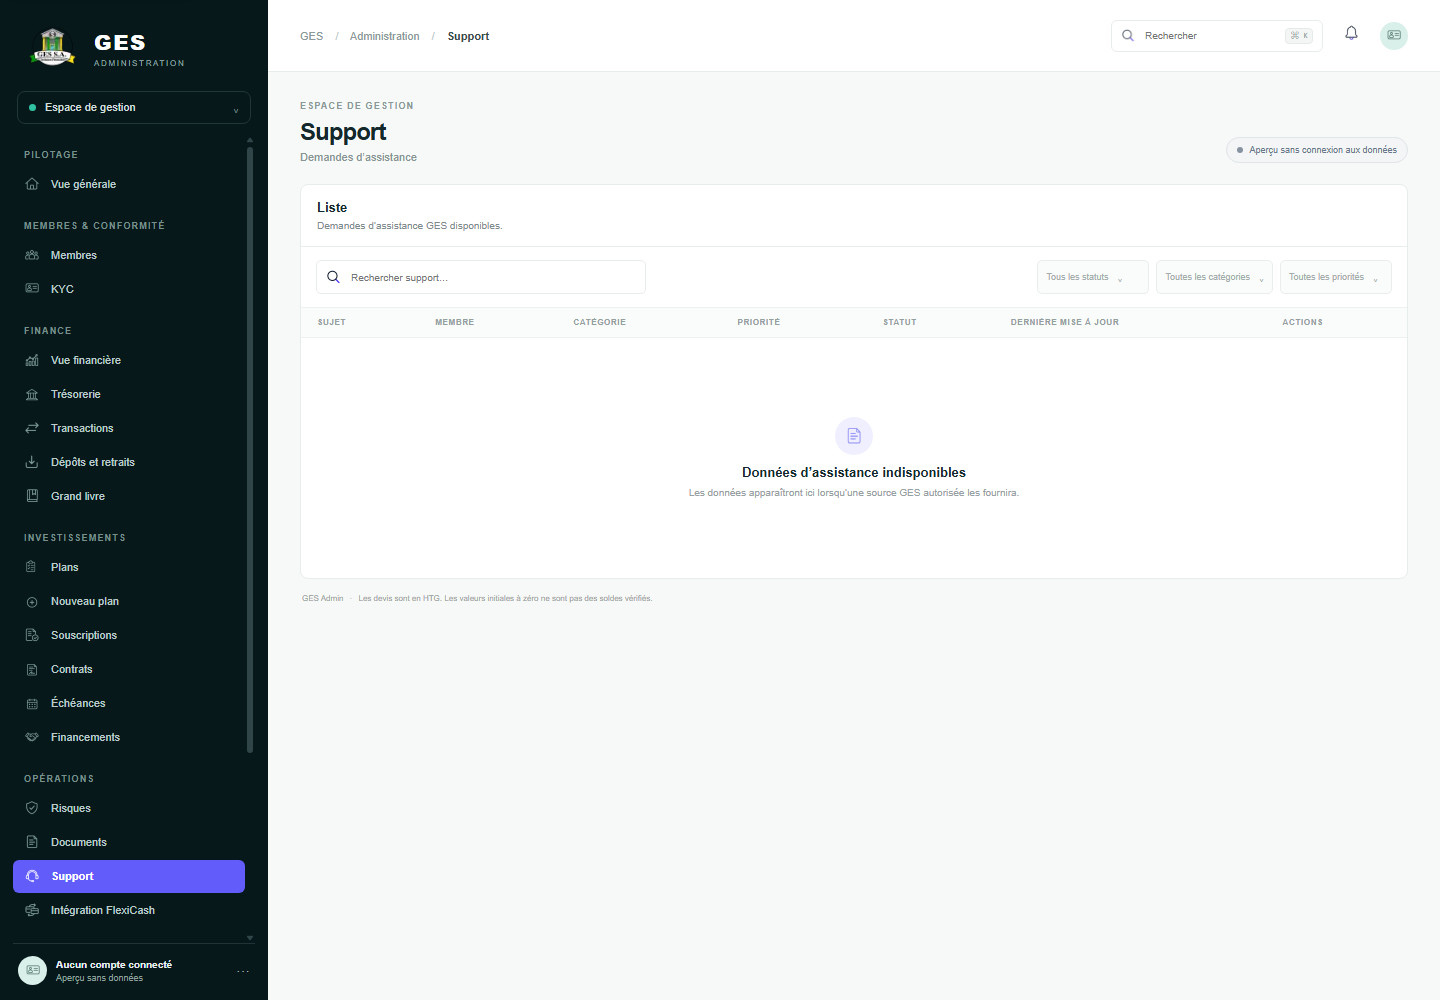
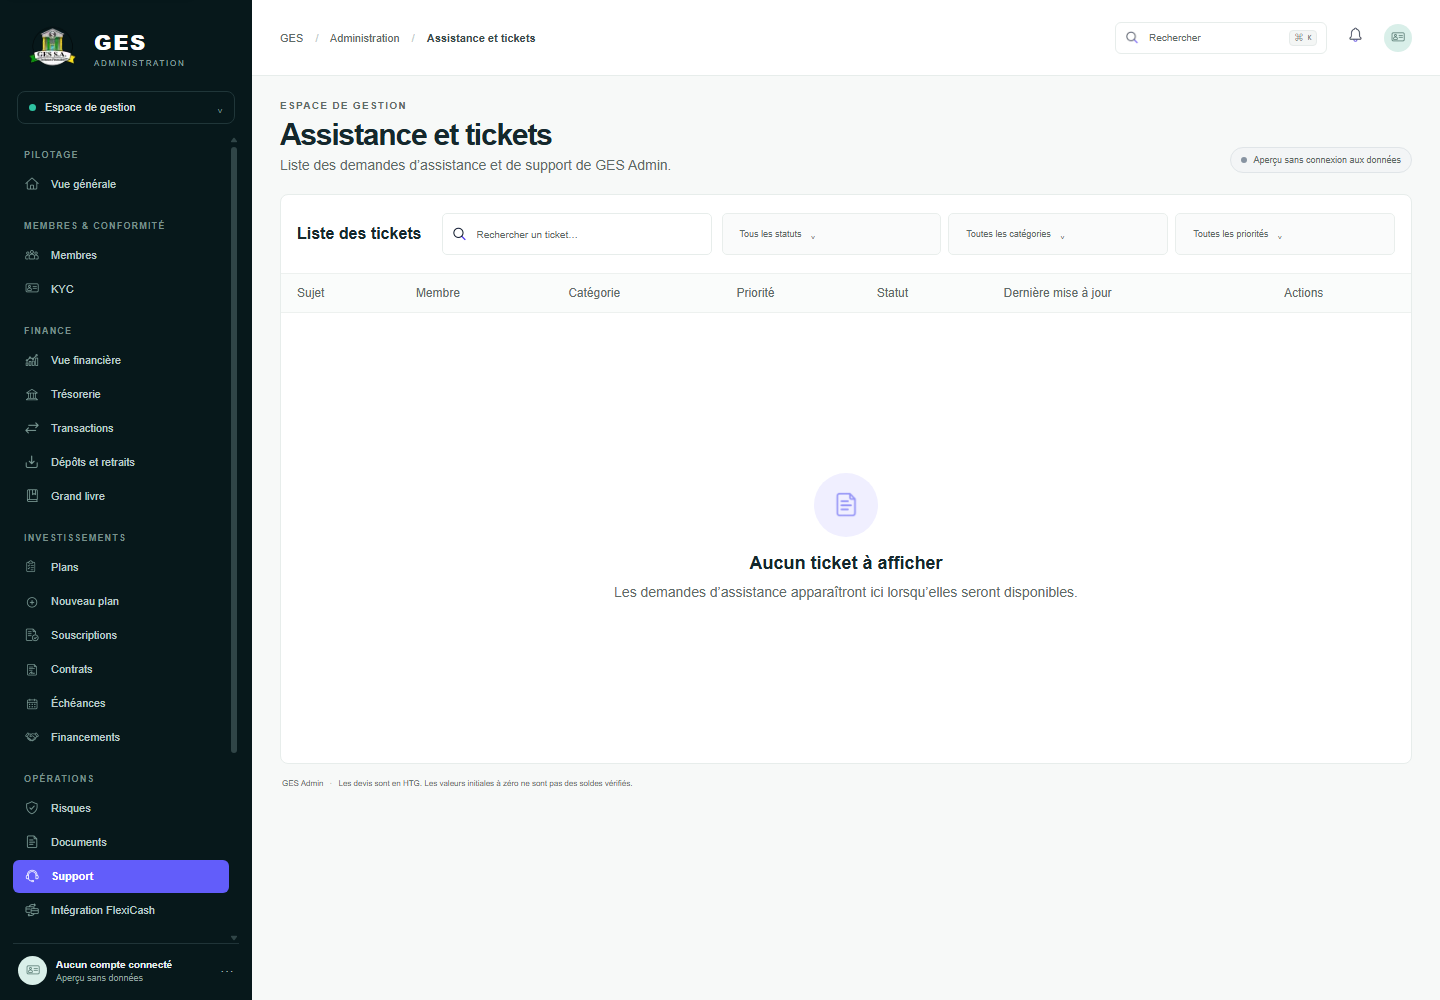
Align support tickets with MF-24

diff --git a/components/module-workspace.tsx b/components/module-workspace.tsx
@@ -12,6 +12,7 @@ type ModulePage = {
   title?: string;
   searchPlaceholder?: string;
   showSearch?: boolean;
+  toolbarTitle?: boolean;
   tabs?: string[];
 };
 
@@ -26,7 +27,7 @@ const pages: Record<string, ModulePage> = {
   financements: { description: "Dossiers de financement relevant de GES.", searchPlaceholder: "Rechercher un financement…", filters: ["Tous les statuts", "Tous les types"], columns: ["Projet ou bénéficiaire", "Montant proposé (HTG)", "Évaluation du risque", "Documents", "Statut", "Étapes"], empty: "Aucune demande de financement", emptyDescription: "Les dossiers apparaîtront ici lorsqu’ils seront disponibles." },
   risques: { description: "Surveillez les risques et alertes disponibles pour GES.", searchPlaceholder: "Rechercher une alerte…", filters: ["Toutes les catégories", "Toutes les sévérités", "Tous les statuts"], columns: ["Sévérité", "Catégorie", "Entité GES", "Analyste assigné", "Statut", "Actions"], empty: "Aucune alerte disponible", emptyDescription: "Les alertes confirmées apparaîtront ici lorsqu’elles seront disponibles." },
   documents: { description: "Documents disponibles dans les espaces GES autorisés.", filters: ["Tous les types"], columns: ["DOCUMENT", "CATÉGORIE", "LIÉ À", "MODIFIÉ LE", "ÉTAT"], empty: "Données documentaires indisponibles" },
-  support: { description: "Demandes d’assistance GES disponibles.", filters: ["Tous les statuts", "Toutes les catégories", "Toutes les priorités"], columns: ["SUJET", "MEMBRE", "CATÉGORIE", "PRIORITÉ", "STATUT", "DERNIÈRE MISE À JOUR", "ACTIONS"], empty: "Données d’assistance indisponibles" },
+  support: { description: "Demandes d’assistance GES disponibles.", title: "Liste des tickets", toolbarTitle: true, searchPlaceholder: "Rechercher un ticket…", filters: ["Tous les statuts", "Toutes les catégories", "Toutes les priorités"], columns: ["Sujet", "Membre", "Catégorie", "Priorité", "Statut", "Dernière mise à jour", "Actions"], empty: "Aucun ticket à afficher", emptyDescription: "Les demandes d’assistance apparaîtront ici lorsqu’elles seront disponibles." },
   equipe: { description: "Administrateurs et accès GES autorisés.", filters: ["Tous les rôles", "Tous les statuts"], columns: ["ADMINISTRATEUR", "RÔLE", "PERMISSIONS", "STATUT", "DERNIÈRE CONNEXION", "ACTIONS"], empty: "Données d’administration indisponibles" },
   audit: { description: "Journal des événements administratifs disponibles.", filters: ["Toutes les actions", "Tous les acteurs", "Période"], columns: ["DATE ET HEURE", "ACTEUR", "ACTION", "ENTITÉ CONCERNÉE", "RÉSULTAT", "DÉTAILS"], empty: "Données d’audit indisponibles" },
 };
@@ -80,5 +81,5 @@ export function ModuleWorkspace({ sectionKey, query, onQueryChange }: { sectionK
 }
 
 function GenericTable({ sectionKey, page, query, onQueryChange, activeTab, setActiveTab }: { sectionKey: string; page: ModulePage; query: string; onQueryChange: (value: string) => void; activeTab: number; setActiveTab: (value: number) => void }) {
-  return <section className={`panel list-panel module-list-panel ${page.showSearch === false ? "no-list-search" : ""}`}>{page.title && <div className="module-panel-header"><div><h2>{page.title}</h2>{page.description && <p>{page.description}</p>}</div></div>}{page.tabs && <div className="module-tabs">{page.tabs.map((tab, index) => <button key={tab} className={activeTab === index ? "selected" : ""} onClick={() => setActiveTab(index)}>{tab}</button>)}</div>}{page.showSearch !== false && <div className="module-toolbar"><label className="filter-search"><Image src="/assets/icons/search.webp" alt="" width={16} height={16}/><input aria-label={`Rechercher dans ${sectionKey}`} placeholder={page.searchPlaceholder ?? `Rechercher ${sectionKey.replaceAll("-", " ")}…`} value={query} onChange={(event) => onQueryChange(event.target.value)}/></label><div className="module-filter-row">{page.filters.map((filter) => <button key={filter} className="filter-button" disabled>{filter.startsWith("Sélectionner une période") && <Image className="period-filter-icon" src="/assets/icons/calendar.webp" alt="" width={16} height={16}/>}<span className="filter-label">{filter}</span><span>⌄</span></button>)}</div></div>}<div className="table-wrap"><table><thead><tr>{page.columns.map((column, index) => <th key={column} className={column.includes("HTG") ? "align-right" : ""}>{column}</th>)}</tr></thead><tbody><tr><td colSpan={page.columns.length}><EmptyState title={page.empty} description={page.emptyDescription} searching={query.trim().length > 0}/></td></tr></tbody></table></div></section>;
+  return <section className={`panel list-panel module-list-panel ${page.showSearch === false ? "no-list-search" : ""}`}>{page.title && !page.toolbarTitle && <div className="module-panel-header"><div><h2>{page.title}</h2>{page.description && <p>{page.description}</p>}</div></div>}{page.tabs && <div className="module-tabs">{page.tabs.map((tab, index) => <button key={tab} className={activeTab === index ? "selected" : ""} onClick={() => setActiveTab(index)}>{tab}</button>)}</div>}{page.showSearch !== false && <div className={`module-toolbar ${page.toolbarTitle ? "module-toolbar-titled" : ""}`}>{page.toolbarTitle && <h2>{page.title}</h2>}<label className="filter-search"><Image src="/assets/icons/search.webp" alt="" width={16} height={16}/><input aria-label={`Rechercher dans ${sectionKey}`} placeholder={page.searchPlaceholder ?? `Rechercher ${sectionKey.replaceAll("-", " ")}…`} value={query} onChange={(event) => onQueryChange(event.target.value)}/></label><div className="module-filter-row">{page.filters.map((filter) => <button key={filter} className="filter-button" disabled>{filter.startsWith("Sélectionner une période") && <Image className="period-filter-icon" src="/assets/icons/calendar.webp" alt="" width={16} height={16}/>}<span className="filter-label">{filter}</span><span>⌄</span></button>)}</div></div>}<div className="table-wrap"><table><thead><tr>{page.columns.map((column, index) => <th key={column} className={column.includes("HTG") ? "align-right" : ""}>{column}</th>)}</tr></thead><tbody><tr><td colSpan={page.columns.length}><EmptyState title={page.empty} description={page.emptyDescription} searching={query.trim().length > 0}/></td></tr></tbody></table></div></section>;
 }

diff --git a/app/globals.css b/app/globals.css
@@ -68,3 +68,4 @@ a:focus-visible,button:focus-visible,input:focus-visible,select:focus-visible,te
 .module-list-panel.no-list-search .module-empty{min-height:145px}.module-list-panel.no-list-search .module-toolbar{display:none}
 .calendar-panel{padding:8px}.calendar-panel .module-panel-header{padding:10px 14px}.calendar-panel .calendar-empty{padding-bottom:4px}
 .incident-detail-grid{display:grid;gap:10px;margin:10px 0}.incident-primary-grid{grid-template-columns:repeat(3,minmax(0,1fr))}.incident-secondary-grid,.incident-activity-grid{grid-template-columns:repeat(2,minmax(0,1fr))}.incident-card{min-width:0;min-height:188px;padding:14px 18px}.incident-card>h2,.incident-notes>h2,.incident-resolution>h2{font:700 16px Arial,Helvetica,sans-serif;margin:0}.incident-card-state{height:145px;display:flex;align-items:center;justify-content:center;flex-direction:column;text-align:center}.incident-card-state .detail-data-icon,.incident-resolution-state .detail-data-icon{height:62px;width:62px;margin-bottom:7px;background:#eef1f5}.incident-card-state .detail-data-icon img,.incident-resolution-state .detail-data-icon img{width:30px;height:30px;filter:brightness(0) saturate(100%) invert(40%) sepia(13%) saturate(1200%) hue-rotate(188deg) brightness(90%)}.incident-card-state strong,.incident-resolution-state strong{font-size:14px}.incident-card-state p,.incident-resolution-state p{max-width:350px;margin:4px 0 0;color:#7c88ac;font-size:13px;line-height:1.4}.incident-notes{min-height:188px;padding:14px 18px}.incident-notes textarea{width:100%;height:120px;margin-top:8px;resize:none;border:1px solid var(--line);border-radius:6px;padding:12px;color:#8792b0;font:14px Arial,Helvetica,sans-serif;background:#fff}.incident-notes textarea:disabled{opacity:1}.incident-resolution{min-height:96px;padding:14px 18px}.incident-resolution-state{display:flex;align-items:center;justify-content:center;gap:12px;min-height:55px}.incident-resolution-state .detail-data-icon{height:54px;width:54px;margin:0}.incident-resolution-state p{max-width:420px;margin-top:3px}.incident-actions{min-height:68px;padding:12px 18px;display:flex;align-items:center;gap:10px}.incident-actions button{min-width:160px;min-height:44px;display:flex;align-items:center;justify-content:center;gap:8px;border:1px solid #dfe6e6;border-radius:6px;background:#edf0f0;color:#9aa5a7;font-size:12px;cursor:not-allowed}.incident-actions button img{opacity:.5}.incident-actions-note{display:flex;align-items:center;gap:10px;margin-left:8px;padding-left:24px;border-left:1px solid #cbd4df;color:#8894a8;font-size:12px}.incident-actions-note img{opacity:.7}@media(max-width:900px){.incident-primary-grid{grid-template-columns:repeat(2,minmax(0,1fr))}.incident-primary-grid .incident-card:last-child{grid-column:1/-1}}@media(max-width:700px){.incident-primary-grid,.incident-secondary-grid,.incident-activity-grid{grid-template-columns:1fr}.incident-primary-grid .incident-card:last-child{grid-column:auto}.incident-actions{align-items:stretch;flex-direction:column}.incident-actions button{width:100%}.incident-actions-note{margin:0;padding:10px 0 0;border-left:0;border-top:1px solid #cbd4df}.incident-resolution-state{align-items:flex-start}.incident-card,.incident-notes{min-height:165px}.incident-card-state{height:125px}.incident-notes textarea{height:95px}}
+.module-toolbar-titled{gap:10px}.module-toolbar-titled>h2{flex:0 0 auto;margin:0 10px 0 0;font:700 16px Arial,Helvetica,sans-serif}.module-toolbar-titled .filter-search{max-width:270px;min-width:160px}.module-toolbar-titled .module-filter-row{flex:1;flex-wrap:nowrap}.module-toolbar-titled .module-filter-row .filter-button{flex:1;min-width:130px}@media(max-width:1050px){.module-toolbar-titled{flex-wrap:wrap}.module-toolbar-titled .filter-search{flex:1 1 100%;max-width:none}.module-toolbar-titled .module-filter-row{flex:1 1 100%}}@media(max-width:760px){.module-toolbar-titled .module-filter-row{flex-wrap:wrap}.module-toolbar-titled .module-filter-row .filter-button{min-width:105px}}

diff --git a/components/admin-shell.tsx b/components/admin-shell.tsx
@@ -26,7 +26,7 @@ const pages: Record<string, { title: string; subtitle: string }> = {
   "vue-financiere": { title: "Vue financière générale", subtitle: "Aperçu de la position financière de GES Admin en HTG et USD." }, tresorerie: { title: "Trésorerie", subtitle: "Positions de trésorerie" }, transactions: { title: "Transactions", subtitle: "Consultez et gérez l’ensemble des transactions." },
   "depots-retraits": { title: "Dépôts et retraits", subtitle: "Suivi des mouvements entrants et sortants" }, "grand-livre": { title: "Grand livre et rapprochement", subtitle: "Consultation du grand livre comptable et rapprochement des soldes." }, plans: { title: "Catalogue des plans d’investissement", subtitle: "Vue d’ensemble des plans d’investissement autorisés sur GES Admin." },
   souscriptions: { title: "Souscriptions", subtitle: "Vue d’ensemble des souscriptions effectuées sur GES Admin." }, contrats: { title: "Contrats d’investissement", subtitle: "Liste des contrats d’investissement enregistrés dans GES Admin." }, echeances: { title: "Échéances et distributions", subtitle: "Suivi des échéances et des distributions de capital et d’intérêts." }, financements: { title: "Financements GES", subtitle: "Gestion des dossiers de financement du GES Admin." }, "plans/nouveau": { title: "Nouveau plan d’investissement", subtitle: "Créer un nouveau plan d’investissement (brouillon)." },
-  risques: { title: "Risques et alertes", subtitle: "Surveillance des risques et des alertes de GES Admin." }, documents: { title: "Documents", subtitle: "Bibliothèque documentaire" }, support: { title: "Support", subtitle: "Demandes d’assistance" }, rapports: { title: "Rapports", subtitle: "Rapports de gestion" }, equipe: { title: "Équipe", subtitle: "Accès et rôles de l’équipe" }, audit: { title: "Audit", subtitle: "Journal des actions administratives" }, parametres: { title: "Paramètres", subtitle: "Configuration de l’espace" }, notifications: { title: "Notifications", subtitle: "Centre de notifications administratives" }, "roles-permissions": { title: "Rôles et permissions", subtitle: "Les permissions effectives sont contrôlées côté serveur" }, "integrations-flexicash": { title: "Intégration FlexiCash", subtitle: "Les espaces GES et FlexiCash restent séparés" },
+  risques: { title: "Risques et alertes", subtitle: "Surveillance des risques et des alertes de GES Admin." }, documents: { title: "Documents", subtitle: "Bibliothèque documentaire" }, support: { title: "Assistance et tickets", subtitle: "Liste des demandes d’assistance et de support de GES Admin." }, rapports: { title: "Rapports", subtitle: "Rapports de gestion" }, equipe: { title: "Équipe", subtitle: "Accès et rôles de l’équipe" }, audit: { title: "Audit", subtitle: "Journal des actions administratives" }, parametres: { title: "Paramètres", subtitle: "Configuration de l’espace" }, notifications: { title: "Notifications", subtitle: "Centre de notifications administratives" }, "roles-permissions": { title: "Rôles et permissions", subtitle: "Les permissions effectives sont contrôlées côté serveur" }, "integrations-flexicash": { title: "Intégration FlexiCash", subtitle: "Les espaces GES et FlexiCash restent séparés" },
 };
 
 const detailPages: Record<string, { title: string; subtitle: string }> = {

diff --git a/design/project-status.md b/design/project-status.md
@@ -65,3 +65,5 @@ Revue MF-21 (29 octobre 2026) : titre/sous-titre, recherche, filtres et colonnes
 Revue MF-22 (29 octobre 2026) : titre/sous-titre, recherche, filtres et colonnes alignes sur la reference. Aucun incident inexistant, alerte, severite, entite ni analyste inventes; le filtre est neutre. Captures desktop/mobile confirment l'etat vide et aucune largeur de page superieure au viewport (1440/390 px).
 
 Revue MF-23 (29 octobre 2026) : retour avant titre, huit panneaux sur severite, description, operation, preuves, enqueteur, chronologie, notes et resolution. Actions escalader/cloturer desactivees; aucun contenu d'incident, date, preuve ou personne fictif. Captures desktop/mobile confirment l'etat indisponible et aucune largeur de page superieure au viewport (1440/390 px).
+
+Revue MF-24 (29 octobre 2026) : titre, sous-titre, recherche, filtres et colonnes aligns sur la reference; le titre Liste des tickets partage la barre de recherche/filtres. Aucun ticket, identite, priorite, statut ou date fictif. Captures desktop/mobile confirment l'etat vide et aucune largeur de page superieure au viewport (1440/390 px).

diff --git a/design/qa/README.md b/design/qa/README.md
@@ -163,3 +163,5 @@ Captures MF-21 : admin-financements-1440x1000.png et admin-financements-390x844.
 Captures MF-22 : admin-risques-1440x1000.png et admin-risques-390x844.png. Aucun risque ou analyste fictif; les filtres restent desactives sans source autorisee.
 
 Captures MF-23 : admin-risques-incident-1440x1000.png et admin-risques-incident-390x844.png. Les donnees d'incident restent indisponibles; notes, escalade et cloture ne permettent aucune saisie ou action sans dossier reel.
+
+Captures MF-24 : admin-support-1440x1000.png et admin-support-390x844.png. Aucun ticket de demonstration, identite ou message; les filtres restent neutres sans source GES autorisee.
